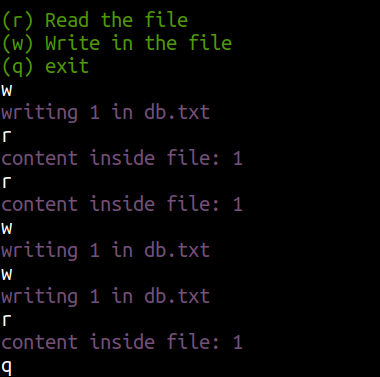
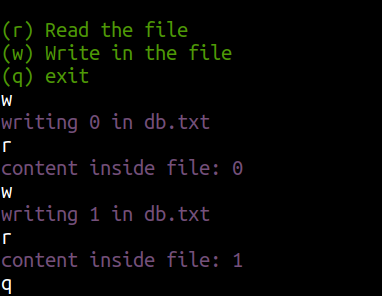
resolves #2

diff --git a/src/main.c b/src/main.c
@@ -1,6 +1,7 @@
 #include <stdio.h>
 #include <stdio_ext.h>
 #include <stdlib.h>
+#include <time.h>
 
 #define DB_FILE "db.txt"
 #define CSI "\x1b["
@@ -31,10 +32,13 @@ void read_content() {
  */
 void write_content() {
   FILE* f = fopen(DB_FILE, "w");
+  // easy and well explained here https://www.youtube.com/watch?v=oXEDMNXzuo4
+  srand(time(NULL));
+  int zero_or_one = rand() % 2;
   printf("%s%s", CSI, MAGENTA);
-  printf("writing 1 in db.txt\n");
+  printf("writing %d in db.txt\n", zero_or_one);
   printf("%s%s", CSI, RESET);
-  fputc('1', f);
+  fputc('0' + zero_or_one, f);  // adding 0 to the int we get the ASCII value
   fclose(f);
 }
 
@@ -48,7 +52,10 @@ void write_content() {
  * @returns {void} void
  */
 void print_menu() {
-  system("clear");  // from stdlib.h
+  int result = system("clear");  // from stdlib.h
+  if (result != 0) {
+    printf("error trying to clear the screen");
+  }
   printf("%s%s", CSI, GREEN);
   printf("\n");
   printf("(r) Read the file\n");
